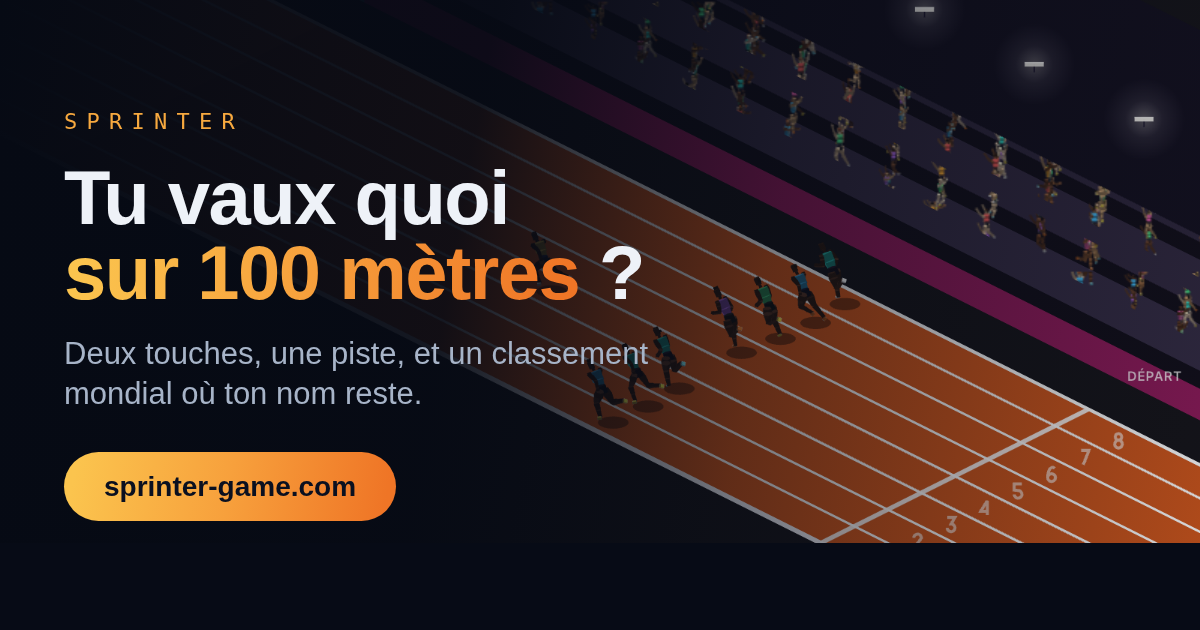
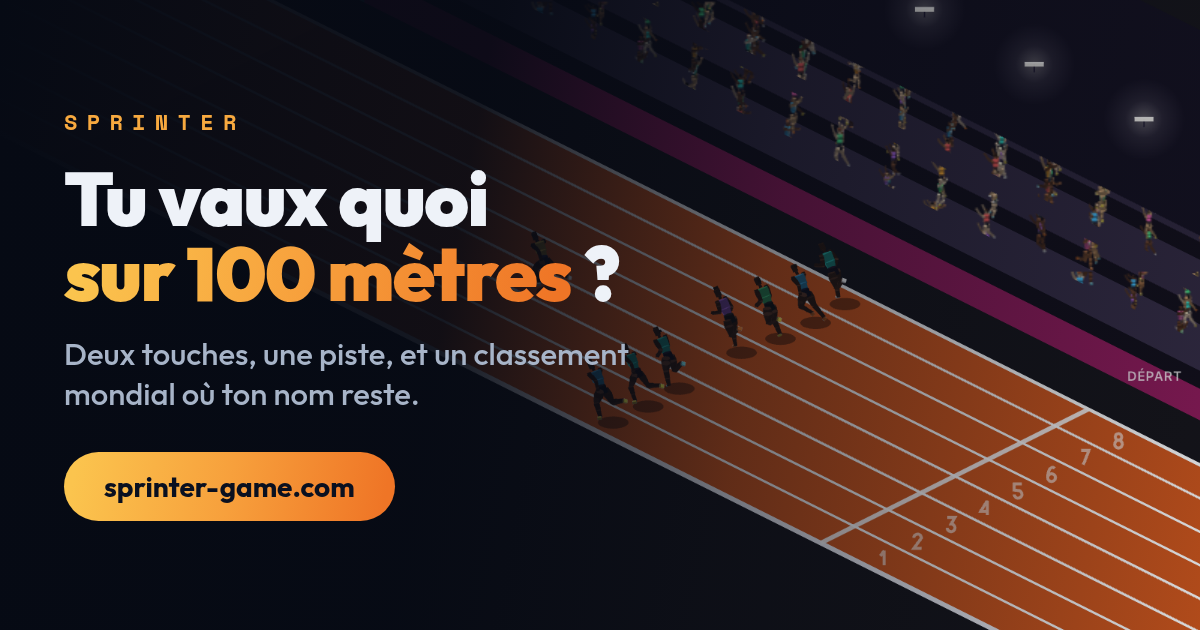
La capture rendait une image coupee, et la carte du defi prend le style du jeu
DEUX CHOSES, ET LA PREMIERE EST UN DEFAUT QUI A ETE MIS EN LIGNE.

`chrome --headless --window-size=1080,1350 --screenshot` ne dessine pas sur
1350 pixels de haut : Chrome retranche la hauteur de son cadre, meme sans
interface — 87 pixels ici. L'image sort pourtant a la taille demandee, le bas
rempli de fond, et ce qu'on avait pose dessous est tranche. Mesure plutot que
soupcon : la page rend `innerHeight = 1263` pour une fenetre de 1350, et
l'encre de la carte s'arretait ligne 1262.

L'apercu du lien de sprinter-game.com est parti avec ce defaut : la piste
s'arretait a 542 pixels sur 630, et les quatre-vingt-huit derniers etaient une
bande noire. Il est refait ici, et il faudra redeployer pour qu'il remplace
celui que les apercus ont peut-etre deja en cache.

La capture passe donc par le protocole DevTools, que Node 22 sait parler sans
dependance depuis qu'il a WebSocket dans ses globales :
`Emulation.setDeviceMetricsOverride` fixe la zone dessinee et
`Page.captureScreenshot` la rend telle quelle. Au passage, les polices sont
vraiment attendues — `document.fonts.ready` plutot qu'un pari de trois
secondes sur la vitesse du reseau.

LE STYLE DU JEU, POUR COMPARER. La carte du defi peut maintenant sortir dans
la maquette que le jeu dessine deja quand un joueur partage sa course :
`--style affiche`. Rien n'y est approche a l'oeil — marge, tailles,
inter-lettrage et couleurs sont recopies de game/trace-affiche.js, y compris
[…]

diff --git a/communication/defi-ouvert/LISEZ-MOI.md b/communication/defi-ouvert/LISEZ-MOI.md
@@ -29,6 +29,15 @@ un jeu, il lui demande **s'il tient le chrono**.
    Reels, TikTok), `-x` (X). Le chrono, le nom et le **compteur de tentatives**
    sont relus sur le serveur au moment du rendu — rien n'est recopié à la main,
    donc rien ne peut être périmé.
+
+   **Deux styles, le temps de choisir** — `--style carte` (défaut) est celui du
+   pack de communication, bleu nuit et dégradé orange ; `--style affiche` est
+   celui que le jeu dessine déjà quand un joueur partage sa course : fond
+   `#060913`, lueur dorée, Outfit 900, chrono en Space Mono. Les proportions du
+   second sont recopiées de `src/game/trace-affiche.js`, pas approchées à
+   l'œil. Les fichiers portent le style dans leur nom (`zeze42-affiche-feed`),
+   donc les deux cohabitent le temps de la comparaison. Une fois tranché, on en
+   supprime un : deux styles qui restent, c'est une marque qui n'en a plus.
 4. **Tu postes**, en prenant la légende dans `legendes.md`.
 
 Relance la commande deux jours plus tard : la carte dit alors « 14 ont essayé,
@@ -91,6 +100,7 @@ perd pour de bon.
 |---|---|
 | `legendes.md` | Les légendes prêtes à coller, par réseau, et les accroches à faire tourner. |
 | `cartes/` | Ce que produit l'outil. Un jeu de trois images par code. |
-| `../../tools/carte-defi-ouvert.mjs` | L'outil. Lit le défi sur l'API, rend les trois formats. |
+| `../../tools/carte-defi-ouvert.mjs` | L'outil. Lit le défi sur l'API, rend les trois formats, dans l'un des deux styles. |
+| `../../tools/chrome.mjs` | La capture et les polices de la charte. Sans réseau, pose les woff2 dans un dossier et donne-le par `SPRINTER_POLICES`. |
 | `../../tools/carte-og.mjs` | L'aperçu permanent du lien (`public/og-1200x630.png`). |
 | `../riposte-danube/` | L'autre campagne : l'actualité de l'athlétisme, pas le défi. Le style des cartes vient de là. |
